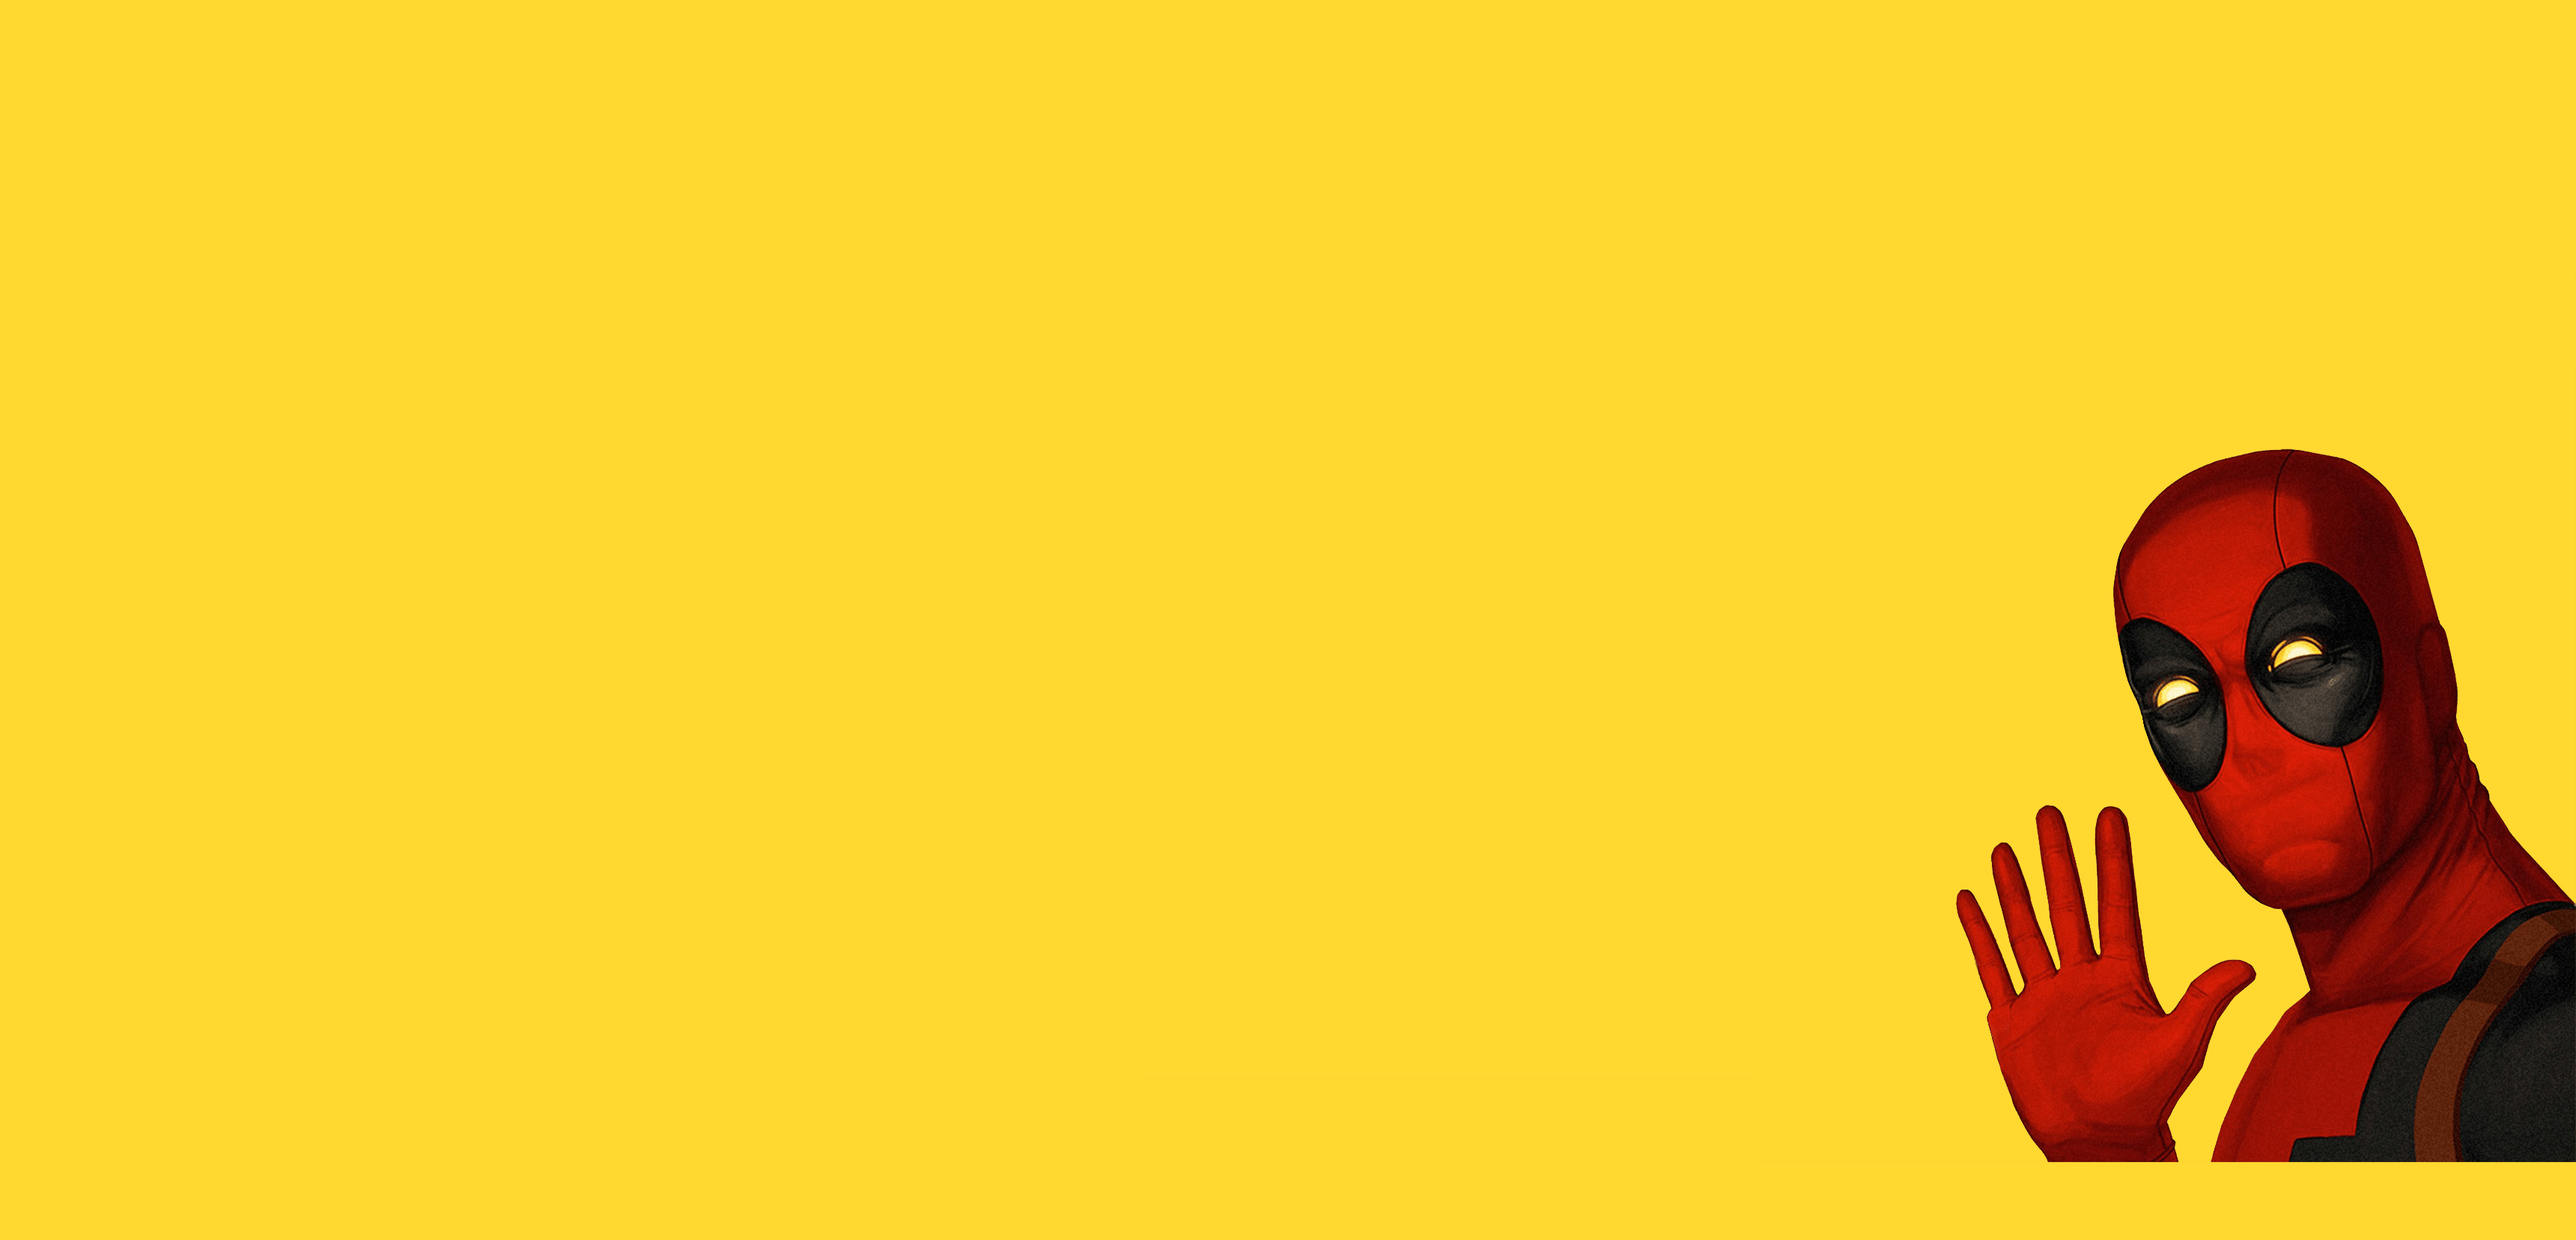
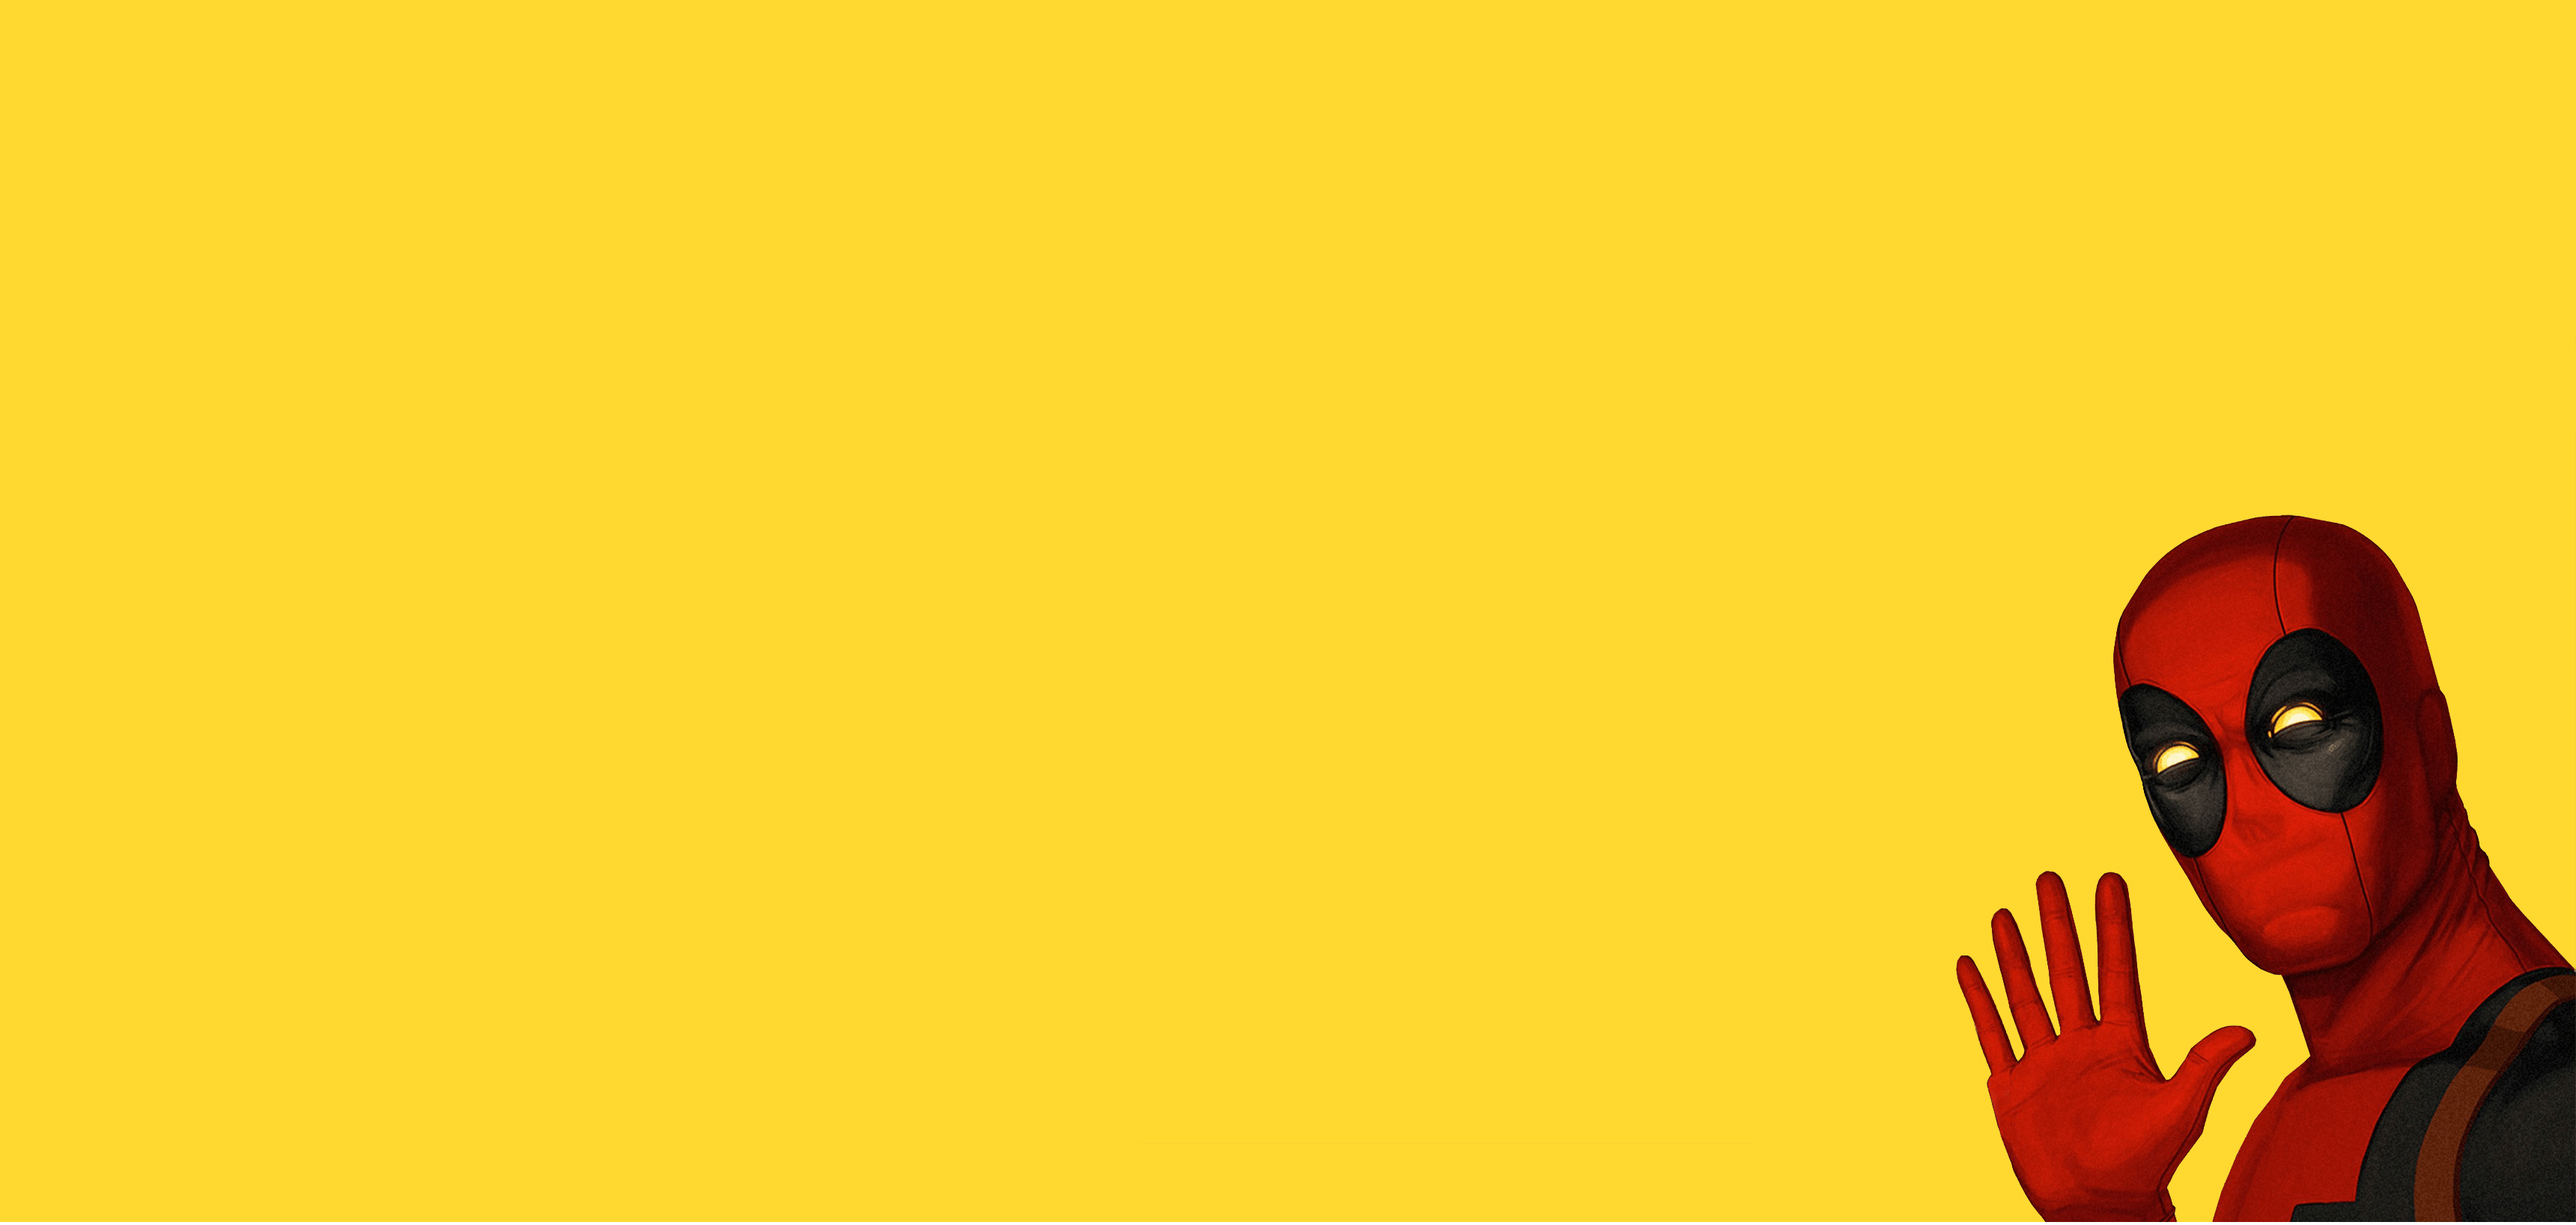
Alterações finais de responsividade

Changed region(s): [[0.0, 0.3429, 1.0, 1.0]]

diff --git a/LojaHQsMarvel/style.css b/LojaHQsMarvel/style.css
@@ -288,12 +288,96 @@ a {
 
 @media only screen and (max-width: 480px) {
 
+    .principal {
+        margin-top: -2px;
+        background: url(imagens/capita-marvel.png) no-repeat center center fixed;
+        background-size: cover;
+        width: 100%;
+        height: 100%;
+        resize: both;
+        overflow: scroll;
+    }
+
+    .revistas {
+        margin-top: -2px;
+        background: url(imagens/MC.png) no-repeat center center fixed;
+        background-size: cover;
+        width: 100%;
+        height: 100%;
+        resize: both;
+        overflow: scroll;
+    }
+
+    .livros {
+        margin-top: -2px;
+        background: url(imagens/livros.png) no-repeat center center fixed;
+        background-size: cover;
+        width: 100%;
+        height: 100%;
+        resize: both;
+        overflow: scroll;
+    }
+
+    .estatuetas {
+        margin-top: -2px;
+        background: url(imagens/estatuetas.png) no-repeat center center fixed;
+        background-size: cover;
+        width: 100%;
+        height: 100%;
+        resize: both;
+        overflow: scroll;
+    }
+
+    .localização {
+        margin-top: -2px;
+        background: url(imagens/localização.PNG) no-repeat center center fixed;
+        background-size: cover;
+        width: 100%;
+        height: 100%;
+        resize: both;
+        overflow: scroll;
+    }
+
+    .contatos {
+        margin-top: -2px;
+        background: url(imagens/contatos.png) no-repeat center center fixed;
+        background-size: cover;
+        width: 100%;
+        height: 100%;
+        resize: both;
+        overflow: scroll;
+    }
+
+    .sobre {
+        margin-top: -2px;
+        background: url(imagens/deadp.png) no-repeat center center fixed;
+        background-size: cover;
+        width: 100%;
+        height: 100%;
+        resize: both;
+        overflow: scroll;
+    }
+
+    .comprafinal {
+        margin-top: -2px;
+        background: url(imagens/hulk.png) no-repeat center center fixed;
+        background-size: cover;
+        width: 100%;
+        height: 100%;
+        resize: both;
+        overflow: scroll;
+    }
+
     .form {
         width: 100%;
     }
 
     .menu {
-        flex-wrap: wrap;        
+        flex-wrap: wrap;     
+    }
+
+    .menu button {
+        width: 80%;
     }
 
     .header .titulos h1 {
@@ -303,6 +387,16 @@ a {
     .textolocalidade {
         max-width: 80%;
         text-align:center;
+    }
+
+    .contato {
+        text-align: center;
+        width: 50%;
+    }
+
+    .contateme {
+        width: 50%;
+        justify-content: center;
     }
 
     .textosobre {

diff --git a/LojaHQsMarvel/revistas.html b/LojaHQsMarvel/revistas.html
@@ -43,15 +43,15 @@
    </nav>
    <nav>
         <ul class="marvelcomics">  
-            <li><a href="produto1.html"><img src="imagens/comic1.png" id=imgmc1 width="130" height="180"></a></li>
-            <li><a href="produto1.html"><img src="imagens/comic2.png" id=imgmc1 width="130" height="180"></a></li>
-            <li><a href="produto1.html"><img src="imagens/comic3.png" id=imgmc1 width="130" height="180"></a></li> 
-            <li><a href="produto1.html"><img src="imagens/comic4.png" id=imgmc1 width="130" height="180"></a></li>
+            <li><a href="comprafinal.html"><img src="imagens/comic1.png" id=imgmc1 width="130" height="180"></a></li>
+            <li><a href="comprafinal.html"><img src="imagens/comic2.png" id=imgmc1 width="130" height="180"></a></li>
+            <li><a href="comprafinal.html"><img src="imagens/comic3.png" id=imgmc1 width="130" height="180"></a></li> 
+            <li><a href="comprafinal.html"><img src="imagens/comic4.png" id=imgmc1 width="130" height="180"></a></li>
         </ul>  
        <ul class="marvelcomics2">
-            <li><a href="produto1.html"><img src="imagens/comic5.png" id=imgmc1 width="130" height="180"></a></li>
-            <li><a href="produto1.html"><img src="imagens/comic6.png" id=imgmc1 width="130" height="180"></a></li>
-            <li><a href="produto1.html"><img src="imagens/comic7.png" id=imgmc1 width="130" height="180"></a></li> 
-            <li><a href="produto1.html"><img src="imagens/comic8.png" id=imgmc1 width="130" height="180"></a></li>
+            <li><a href="comprafinal.html"><img src="imagens/comic5.png" id=imgmc1 width="130" height="180"></a></li>
+            <li><a href="comprafinal.htmll"><img src="imagens/comic6.png" id=imgmc1 width="130" height="180"></a></li>
+            <li><a href="comprafinal.html"><img src="imagens/comic7.png" id=imgmc1 width="130" height="180"></a></li> 
+            <li><a href="comprafinal.html"><img src="imagens/comic8.png" id=imgmc1 width="130" height="180"></a></li>
        </ul>
    </nav>

diff --git a/LojaHQsMarvel/index.html b/LojaHQsMarvel/index.html
@@ -42,17 +42,12 @@
     </nav>
     <nav>
         <ul class="produtos">  
-            <li><a href="produto1.html"><img src="imagens/produto1.png" id="imgmc1" width="130" height="180"></a></li>
-            <li><a href="produto1.html"><img src="imagens/produto2.png" id="imgmc1" width="130" height="180"></a></li>
-            <li><a href="produto1.html"><img src="imagens/produto3.png" id="imgmc1" width="130" height="180"></a></li> 
-            <li><a href="produto1.html"><img src="imagens/produto4.png" id="imgmc1" width="130" height="180"></a></li>
+            <li><a href="comprafinal.html"><img src="imagens/produto1.png" id="imgmc1" width="130" height="180"></a></li>
+            <li><a href="comprafinal.html"><img src="imagens/produto2.png" id="imgmc1" width="130" height="180"></a></li>
+            <li><a href="comprafinal.html"><img src="imagens/produto3.png" id="imgmc1" width="130" height="180"></a></li> 
+            <li><a href="comprafinal.html"><img src="imagens/produto4.png" id="imgmc1" width="130" height="180"></a></li>
         </ul>   
    </nav>
-    <ul class="comprar">
-        <button><ul><li><a href="produto1.html">Comprar</a></li></ul></button> 
-        <button><ul><li><a href="produto1.html">Comprar</a></li></ul></button>
-        <button><ul><li><a href="produto1.html">Comprar</a></li></ul></button>
-        <button><ul><li><a href="produto1.html">Comprar</a></li></ul></button>
-    </ul>
+
 </body>
 </html>

diff --git a/LojaHQsMarvel/comprafinal.html b/LojaHQsMarvel/comprafinal.html
@@ -40,11 +40,6 @@
             <button><li><a href="sobre.html">Sobre</a></li></button>
         </ul>
     </nav>
-
-    <div>
-        <img src="imagens/sombra.png" alt="descrição" id=imgpos2 width="285" height="325">
-        <img src="imagens/produto1.png" alt="Finalizarcompra" id=imgpos width="283" height="326">   
-    </div>
     
 </body>
 </html>
